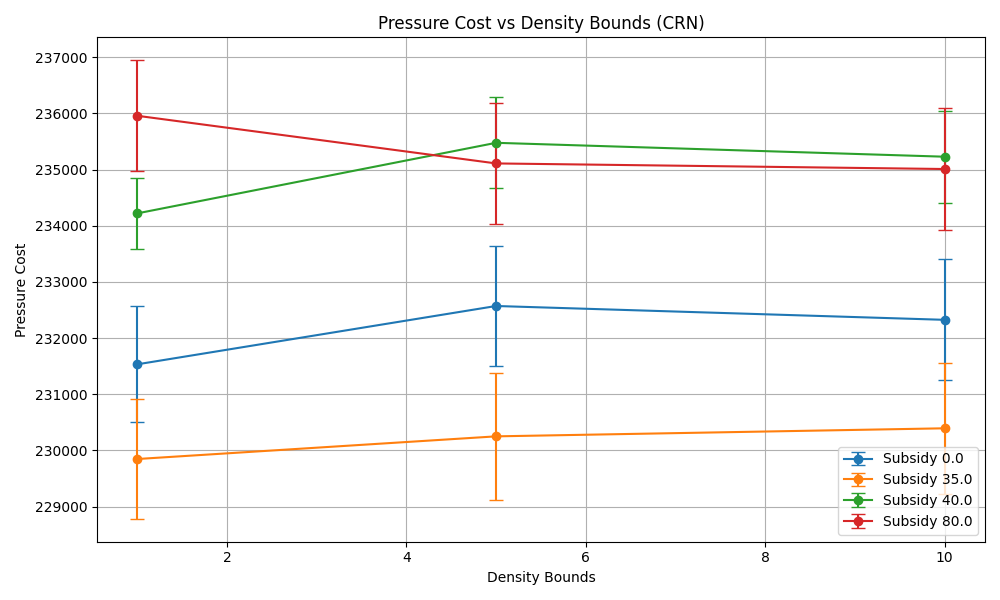
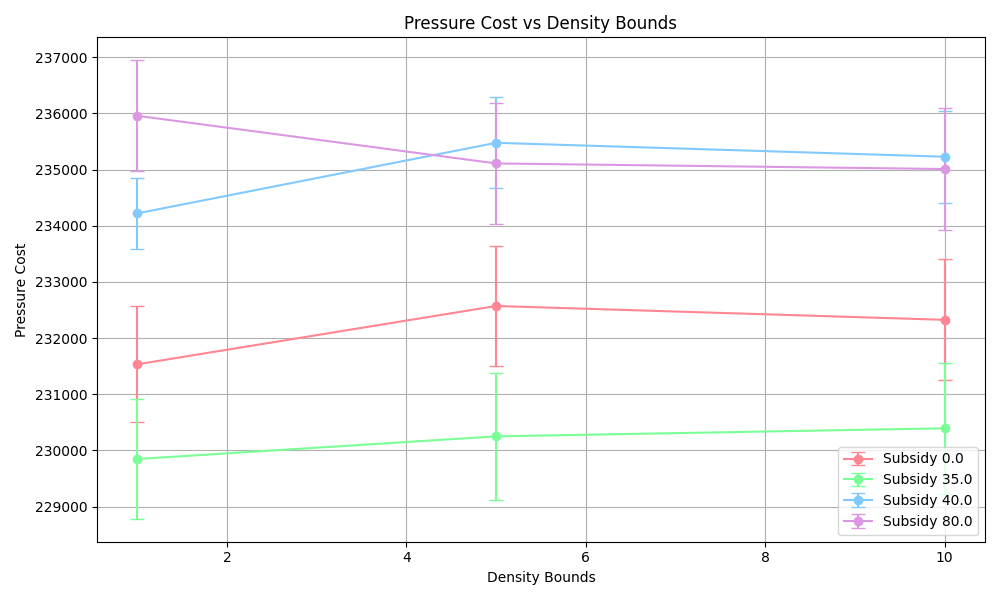
moved speed experiments together

diff --git a/study_case_model/figures/density_impact/combined_runs/combine_runs.py b/study_case_model/figures/density_impact/combined_runs/combine_runs.py
@@ -64,6 +64,15 @@ def load_and_plot(csv_path, folder="figures/", runs=None):
     - runs: if provided, assumes std column is SD and converts to SE via /sqrt(runs)
             if None, assumes std column is already SE
     """
+    # Soft pastel palette
+    pastel_colors = [
+        "#FF8692",  # pastel red
+        "#7AFF97",  # pastel green
+        "#82C9FF",  # pastel blue
+        "#DB97E3",  # pastel purple
+        "#FFFF82",  # pastel yellow
+    ]
+
 
     df = pd.read_csv(csv_path)
 
@@ -107,17 +116,18 @@ def load_and_plot(csv_path, folder="figures/", runs=None):
     # ---- H2 ----
     plt.figure(figsize=(10, 6))
 
-    for s in subsidies:
+    for i,s in enumerate(subsidies):
         means = [results[s][d]["h2_mean"] for d in densities]
         errs = [get_err(results[s][d]["h2_std"]) for d in densities]
 
-        plt.errorbar(densities, means, yerr=errs, marker="o", capsize=5, label=f"Subsidy {s}")
+        plt.errorbar(densities, means, yerr=errs, marker="o", capsize=5, label=f"Subsidy {s}",
+        color=pastel_colors[i % len(pastel_colors)])
 
     plt.xlabel("Density Bounds")
     plt.ylabel("Hydrogen Production")
-    plt.title("H2 Production vs Density Bounds (CRN)")
+    plt.title("H2 Production vs Density Bounds")
     plt.grid()
-    plt.legend()
+    plt.legend(loc="lower right")
     plt.tight_layout()
     plt.savefig(folder + "h2_vs_density.png")
     plt.show()
@@ -125,17 +135,17 @@ def load_and_plot(csv_path, folder="figures/", runs=None):
     # ---- Pressure ----
     plt.figure(figsize=(10, 6))
 
-    for s in subsidies:
+    for i,s in enumerate(subsidies):
         means = [results[s][d]["pressure_mean"] for d in densities]
         errs = [get_err(results[s][d]["pressure_std"]) for d in densities]
 
-        plt.errorbar(densities, means, yerr=errs, marker="o", capsize=5, label=f"Subsidy {s}")
+        plt.errorbar(densities, means, yerr=errs, marker="o", capsize=5, label=f"Subsidy {s}", color=pastel_colors[i % len(pastel_colors)])
 
     plt.xlabel("Density Bounds")
     plt.ylabel("Pressure Cost")
-    plt.title("Pressure Cost vs Density Bounds (CRN)")
+    plt.title("Pressure Cost vs Density Bounds")
     plt.grid()
-    plt.legend()
+    plt.legend(loc="lower right")
     plt.tight_layout()
     plt.savefig(folder + "pressure_vs_density.png")
     plt.show()

diff --git a/study_case_model/study_case_problem_file.py b/study_case_model/study_case_problem_file.py
@@ -7,6 +7,7 @@ import numpy as np
 import pandas as pd
 import os
 from scipy.optimize import minimize
+import matplotlib.colors as mcolors
 
 np.random.seed(42)
 
@@ -32,10 +33,19 @@ def plot_grid(pairs, file_path):
     # Calculate Weymouth cutting constant for each pair
     flow = [np.sqrt(pair[0]**2 - pair[1]**2) for pair in pairs]
 
+    # Define your pastel colors (example palette)
+    pastel_colors = ["#82C9FF", "#7AFF97",]
+
+    # Create a continuous colormap
+    continuous_pastel = mcolors.LinearSegmentedColormap.from_list(
+        "continuous_pastel", pastel_colors
+)
+
+
     # Create the plot
     plt.figure(figsize=(10, 6))
     scatter = plt.scatter(p_out_values, p_in_values, c=flow, marker='.', 
-                        s=200, cmap='viridis')
+                        s=200, cmap=continuous_pastel)
     plt.xlabel(r'$P_{\text{out},l}$')
     plt.ylabel(r'$P_{\text{in},l}$')
     plt.title('Cutting Plane Points')